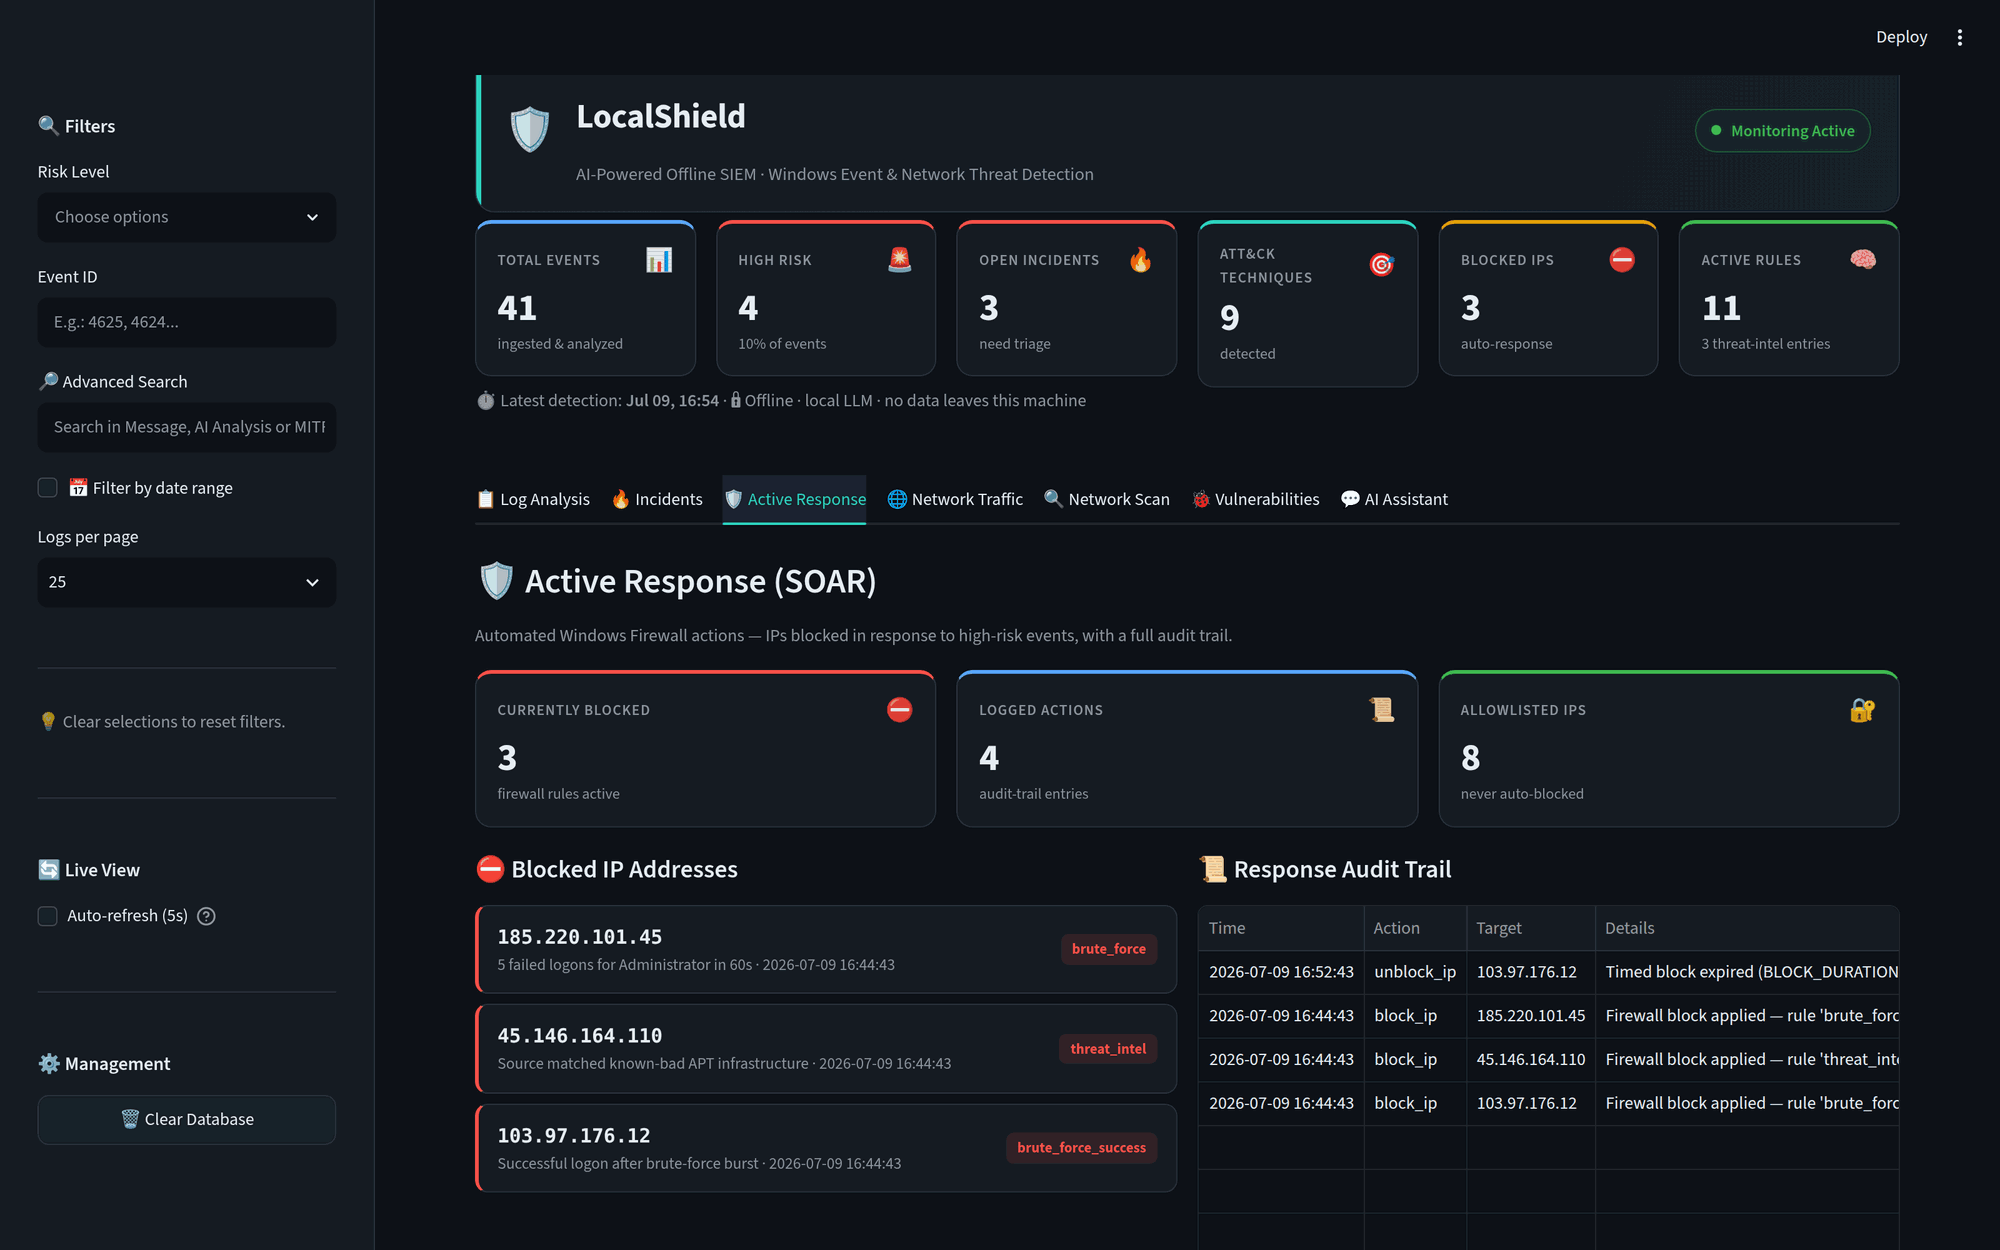
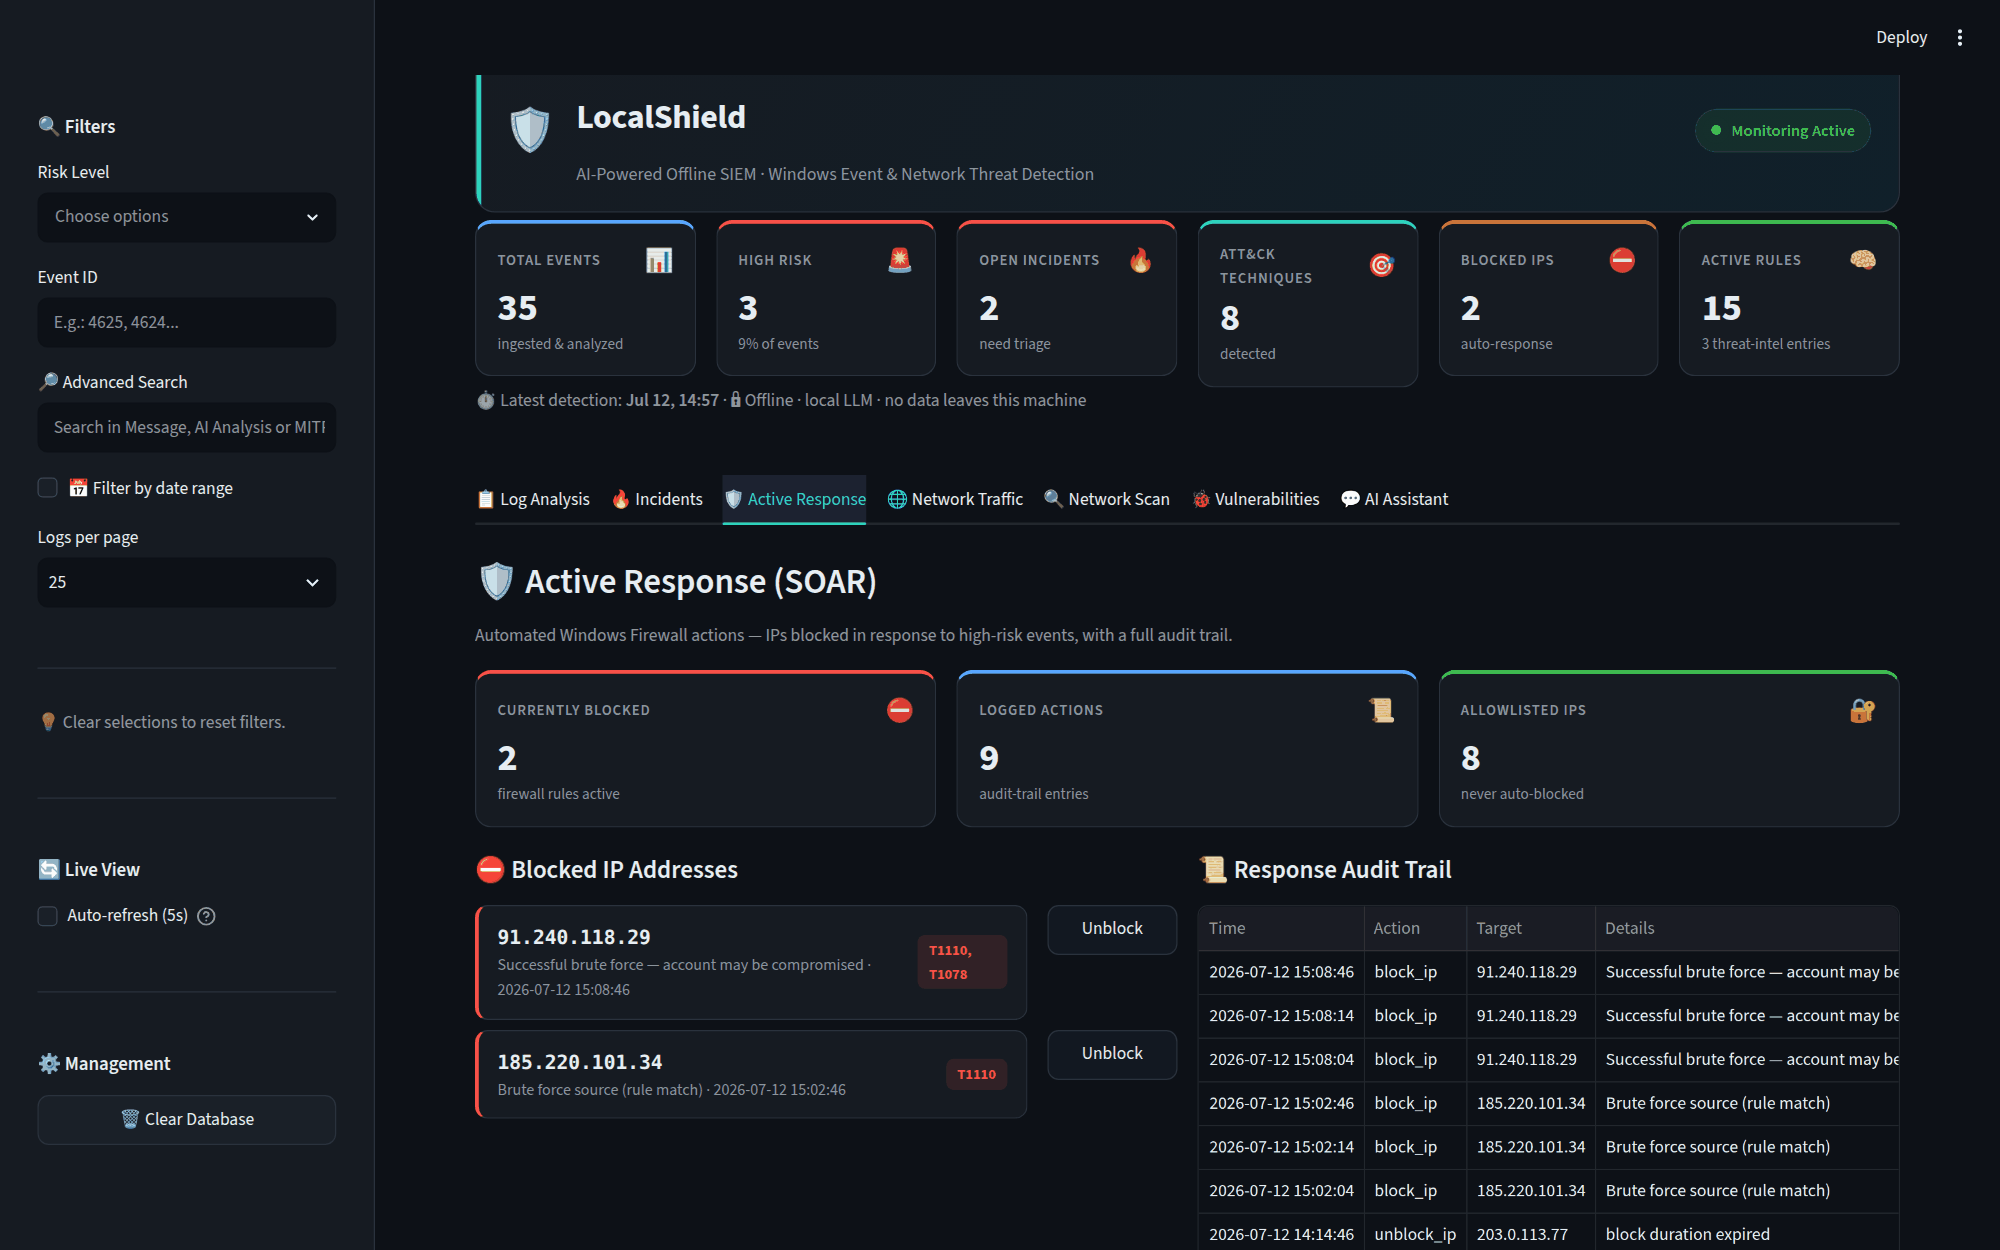
docs: document new features, refresh affected dashboard screenshots
README: rule-set list, manual unblock, heartbeat-driven status badge,
incident triage, feed-updater CLI, rules tree entries, test count (289).
Screenshots regenerated for the three views the UI changed (log analysis
header, incidents triage buttons, active-response unblock buttons);
vulnerabilities.png untouched.

Claude-Session: https://claude.ai/code/session_01QoJYgghtbPsRDGyeyjKReb

diff --git a/README.md b/README.md
@@ -61,7 +61,7 @@
 
 ### 🕵♂ Detection Engine
 
-- **Curated Rule Set**: Ships with rules for brute force, encoded PowerShell, suspicious parent-child chains, LOLBin downloads (certutil/bitsadmin), new services (7045), new accounts (4720), privileged-group changes (4732), account lockouts (4740) and WMIC process creation
+- **Curated Rule Set**: Ships with rules for brute force (incl. RDP, Logon Type 10), encoded PowerShell, suspicious parent-child chains, LOLBin downloads (certutil/bitsadmin), new services (7045), new accounts (4720), privileged-group changes (4732), account lockouts (4740), WMIC process creation, audit-log clearing (1102), audit-policy changes (4719) and scheduled-task creation (4698)
 - **Multi-Rule Matching**: One event can trip several rules; every match is reported (all MITRE techniques preserved), not just the first
 - **Per-Source Correlation**: Threshold rules (e.g. brute force) count **per attacker IP** — IPv4 or IPv6, with equivalent IPv6 spellings sharing one counter — so unrelated failures across hosts don't raise false alerts
 - **Flexible Conditions**: Event ID, provider, regex on message / command line / image / parent image, time-window thresholds, and per-source grouping
@@ -74,11 +74,13 @@
 - **Critical-IP Allowlist**: DNS/gateway and other critical IPs are never blocked
 - **Timed Blocks**: Optional auto-expiry (`BLOCK_DURATION_MINUTES`) lifts each block after a set duration
 - **Dry-Run Mode**: `RESPONSE_DRY_RUN=True` exercises every safety check and audit record without touching the firewall
+- **Manual Unblock**: Lift any block straight from the dashboard's Active Response tab — audited like every automated action
 - **Private-IP Filtering** and a **persisted audit trail** of every automated action
 
 ### 🌐 Threat Intelligence & Network Monitoring
 
 - **IP Reputation**: CSV-based feed supporting single IPs and **CIDR ranges**, in both IPv4 and IPv6
+- **Opt-In Feed Updater**: `python -m modules.threat_intel --update` merges a public blocklist (default: abuse.ch Feodo Tracker) into the local CSV — manual entries are preserved, and the runtime itself never fetches anything (offline-first stays intact)
 - **Live Packet Capture**: Wireshark-like capture using Scapy, with protocol analysis and PCAP export
 - **Traffic Statistics**: Top source/destination IPs, port analysis, and protocol breakdown
 - **Vulnerability Scanner**: Open-port detection with risk assessment
@@ -102,6 +104,8 @@
 
 - **Log Analysis**: Risk-level visualization, timeline and risk-distribution charts
 - **MITRE ATT&CK Coverage**: Techniques detected, grouped and coloured by tactic
+- **Honest Live Status**: The header badge is driven by a watcher heartbeat — Monitoring Active / Watcher Stale / Watcher Offline (a dashboard-only Docker deployment shows Offline by design)
+- **Incident Triage**: Close and reopen incidents directly from the Incidents tab
 - **Filtering & Pagination**: Risk / Event ID / full-text / date-range filters with paginated log cards
 - **Opt-In Live View**: Auto-refresh is a toggle (default off) so reading and the AI chat aren't interrupted
 - **AI Security Assistant**: Chat interface grounded in your current logs and open ports
@@ -122,7 +126,7 @@
 
 ### ✅ Quality
 
-- **260+ unit tests** and **GitHub Actions CI** across Python 3.10 / 3.11 / 3.12
+- **280+ unit tests** and **GitHub Actions CI** across Python 3.10 / 3.11 / 3.12
 - **Cross-platform detection core**: import Linux SSH `auth.log` and run it through the same rules (see below)
 
 ---
@@ -316,7 +320,7 @@ way unless you place an authenticating reverse proxy in front.
 
 ### Tooling
 
-- **pytest**: 270+ unit & integration tests
+- **pytest**: 280+ unit & integration tests
 - **GitHub Actions**: CI matrix across Python 3.10 / 3.11 / 3.12
 
 ### Architecture Patterns
@@ -379,11 +383,15 @@ LocalShield/
 │   ├── added_to_admin_group.yaml   #  T1098 / T1078.003
 │   ├── account_lockout.yaml        #  T1110
 │   ├── wmic_process_call.yaml      #  T1047
+│   ├── audit_log_cleared.yaml      #  T1070.001
+│   ├── audit_policy_change.yaml    #  T1562.002
+│   ├── scheduled_task_created.yaml #  T1053.005
+│   ├── rdp_brute_force.yaml        #  T1110 / T1021.001
 │   └── hid_injection.yaml          #  T1200 / T1059.001  (BadUSB)
 │
 ├── payloads/duckyscript/     # Educational DuckyScript demos (O.MG cable / iPadOS)
 ├── grafana/                  # Ready-to-import Grafana dashboard (Prometheus)
-├── tests/                    # 270+ unit & integration tests
+├── tests/                    # 280+ unit & integration tests
 ├── data/                     # Knowledge base and threat intel data
 ├── .streamlit/config.toml    # Binds the dashboard to localhost
 ├── .github/workflows/ci.yml  # GitHub Actions CI (pytest, Py 3.10–3.12)
